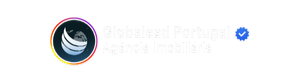
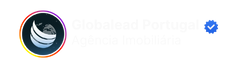
"commit"

Changed region(s): [[0.0596, 0.1515, 0.3277, 0.8788], [0.8638, 0.303, 0.9532, 0.5152], [0.7745, 0.3333, 0.834, 0.5152]]

diff --git a/src/components/Footer.tsx b/src/components/Footer.tsx
@@ -80,11 +80,11 @@ const Footer: React.FC = () => {
         <div className="grid grid-cols-1 md:grid-cols-3 gap-12">
 
           {/* Redes sociais */}
-          <div className="flex flex-col items-center">
+          <div className="flex flex-col items-center mt-4">
             <div className="w-full max-w-xs">       
                 <img
                   src="/G.png"
-                  className="w-full h-full object-contain"
+                  className="w-full h-full object-contain cursor-pointer"
                   onClick={() => window.open('https://www.instagram.com/globalead.pt/', '_blank')}
                 />
             </div>
